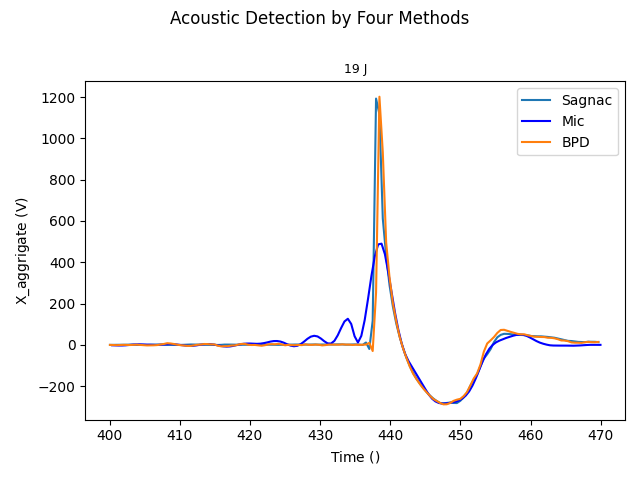
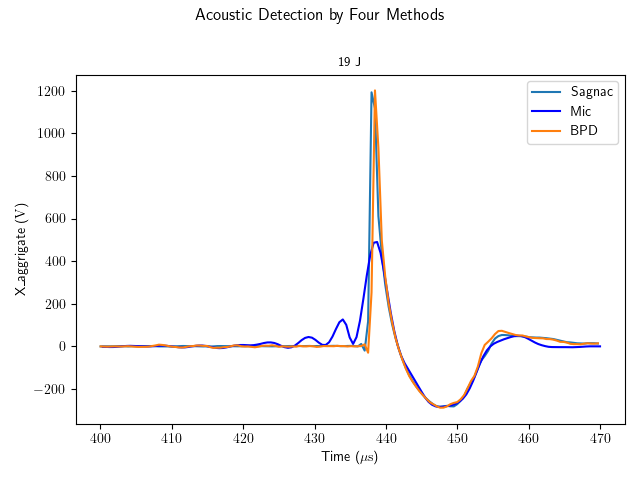
GCURS Plots

diff --git a/08-01-2023, Time Domain Comparison.py b/08-01-2023, Time Domain Comparison.py
@@ -70,10 +70,10 @@ for n in N:
 	L.agg.plot(tmin=400e-6, tmax = 470e-6, ax = ax, figsize = size, tunit = "us")
 	M.aggrigate(collection_slice = slice(2, 500, 1))
 	M.agg.plot(tmin=400e-6, tmax = 470e-6, ax = ax, figsize = size, c = "b", tunit = "us")
-	for i in list(range(1, 51)):
+	for i in list(range(2, 3)):
 		Li = L.collection[i]
 		Mi = M.collection[i]
-		#Li.plot(tmin = 420e-6, tmax = 470e-6, ax = ax, c = "crimson", tunit = "us")
+		#Li.plot(tmin = 400e-6, tmax = 470e-6, ax = ax, tunit = "us")
 		#Mi.plot(tmin = 420e-6, tmax = 470e-6, ax = ax, c = "C0", tunit = "us")
 
 for n in N:
@@ -90,7 +90,7 @@ for n in N:
 	for i in list(range(2, 3)):
 		Li = L.collection[i]
 		Mi = M.collection[i]
-		#Li.plot(tmin = 420e-6, tmax = 470e-6, ax = ax, c = "crimson", tunit = "us")
+		#Li.plot(tmin = 400e-6, tmax = 470e-6, ax = ax, c = "red", tunit = "us")
 		#Mi.plot(tmin = 420e-6, tmax = 470e-6, ax = ax, c = "C0", tunit = "us")
 
 for n in N:
@@ -103,11 +103,11 @@ for n in N:
 	L_Npts = int(L.r/ (2 * L_cutoff))
 	L.apply("bin_average", Npts = L_Npts, inplace = True)
 	L.aggrigate(collection_slice = slice(2, 500, 1))
-	#L.agg.plot(tmin=400e-6, tmax = 470e-6, ax = ax, tunit = "us")
+	L.agg.plot(tmin=400e-6, tmax = 470e-6, ax = ax, figsize = size, tunit = "us")
 	for i in list(range(2, 3)):
 		Li = L.collection[i]
 		Mi = M.collection[i]
-		#Li.plot(tmin = 420e-6, tmax = 470e-6, ax = ax, c = "crimson", tunit = "us")
+		#Li.plot(tmin = 400e-6, tmax = 470e-6, ax = ax, color = "r", tunit = "us")
 		#Mi.plot(tmin = 420e-6, tmax = 470e-6, ax = ax, c = "C0", tunit = "us")
 
 
@@ -115,6 +115,6 @@ string = "\n" + str(19) + " J"
 plt.title(string, fontsize = 9)
 plt.suptitle("Acoustic Detection by Four Methods")
 plt.legend(["Sagnac", "Mic", "BPD", "PD"])
-#plt.show()
+plt.show()
 
-plt.savefig("Time-Domain Pulses.png")
+#plt.savefig("Time-Domain Pulses.png")

diff --git a/09-26-2023, Diaci Time Domain.py b/09-26-2023, Diaci Time Domain.py
@@ -7,13 +7,13 @@ import sys
 import numpy as np
 import matplotlib.pyplot as plt
 
-sys.path.append(r"C:\Users\ryans\OneDrive\Desktop\Research\brownian\src") 	# append path to brownian src folder (change Ryan Schlimme to ryans)
+sys.path.append(r"C:\Users\Ryan Schlimme\OneDrive\Desktop\Research\brownian\src") 	# append path to brownian src folder (change Ryan Schlimme to ryans)
 from time_series import CollectionTDMS
 from acoustic_entrainment import mic_response
 from brownian import get_sound_speed
-from scipy.special import k1e
+from scipy.special import k1e, erfinv
 
-Sagnac_name = r"C:\Users\ryans\OneDrive\Desktop\Research\Data\20230801\Sagnac\iter_0.tdms"
+Sagnac_name = r"C:\Users\Ryan Schlimme\OneDrive\Desktop\Research\Data\20230801\Sagnac\iter_0.tdms"
 
 def Phi(p):
     return np.sqrt(2) * erfinv(2*p-1)
@@ -41,7 +41,7 @@ def local_detrend(col, tmin = None, tmax = None, inplace = False) -> None:
 
 def Diaci(s, dist = 0.10, temp = 20, n0 = 1.00029):
     speed = get_sound_speed(T = temp, RH = 0.5, p = 99e3)
-    return -2/n0*dist/speed*s*k1e(s*dist/speed)
+    return -2/n0*dist/speed*2j*np.pi*s*k1e(s*dist/speed)
 
 
 N = [0]
@@ -72,11 +72,11 @@ L.apply("correct", response = Diaci)
 L.aggrigate(collection_slice = slice(1,500))
 L.agg.plot(tmin = 400e-6, tmax = 470e-6, ax = ax)
 M.aggrigate(collection_slice = slice(1,500))
-M.agg.plot(tmin = 400e-6, tmax = 470e-6, ax = ax)
+M.agg.plot(tmin = 400e-6, tmax = 470e-6, ax = ax, tunit = "us")
 
 #intArray = np.zeros((len(L.agg.x), 1))
 
-Ldata = [shot.time_gate(tmin = 400e-6, tmax = 470e-6)[1] for shot in L.collection]
+Ldata = [abs(shot.time_gate(tmin = 400e-6, tmax = 470e-6)[1]) for shot in L.collection]
 Ltime = [shot.time_gate(tmin = 400e-6, tmax = 470e-6)[0] for shot in L.collection]
 
 

diff --git a/08-07-2023, SNR Comparison Phi Scan.py b/08-07-2023, SNR Comparison Phi Scan.py
@@ -3,8 +3,8 @@
 
 # Investigating signal to noise ratio of four acoustic measurement systems with various signal strengths using parallel processing.
 
-#I = [145]
-I = [145, 146, 147, 148, 149, 150, 151, 152, 153, 154, 155, 156, 157, 158, 159, 160]
+I = [152]
+# I = [145, 146, 147, 148, 149, 150, 151, 152, 153, 154, 155, 156, 157, 158, 159, 160]
 
 Sagnac_name_index = [r"C:\Users\Ryan Schlimme\OneDrive\Desktop\Research\Data\20230801\Sagnac\MinDetect\phi" + str(i) + ".tdms" for i in I]
 BPD_name_index = [r"C:\Users\Ryan Schlimme\OneDrive\Desktop\Research\Data\20230801\SplitBeam\MinDetect\phi" + str(i) + ".tdms" for i in I]
@@ -45,7 +45,7 @@ def local_detrend(col, tmin = None, tmax = None, inplace = False) -> None:
 
 mu = 0
 
-fig, axes = plt.subplots(4, 4, sharex = True)
+fig, axes = plt.subplots(1, 2, sharex = False)
 fc_list = list(np.linspace(20000, 2500000, 50))
 
 Iteration = [c for c in range(len(I))]
